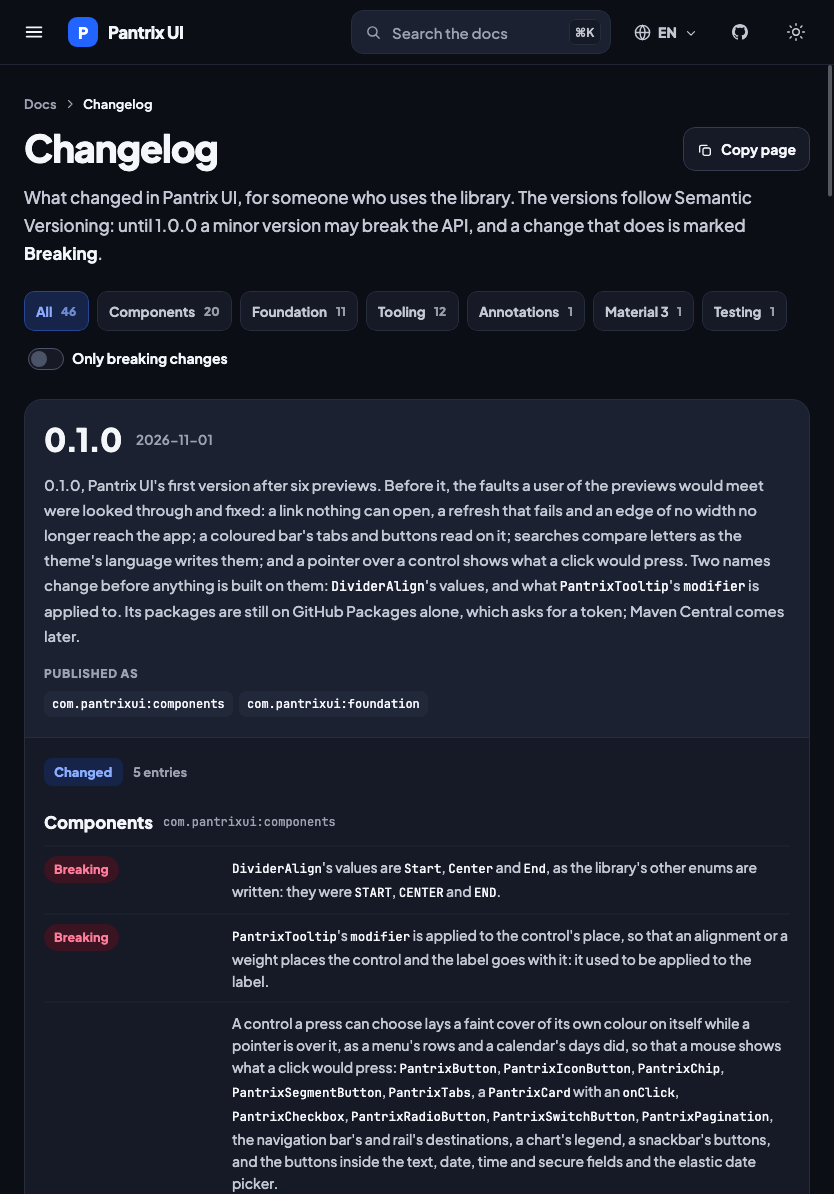
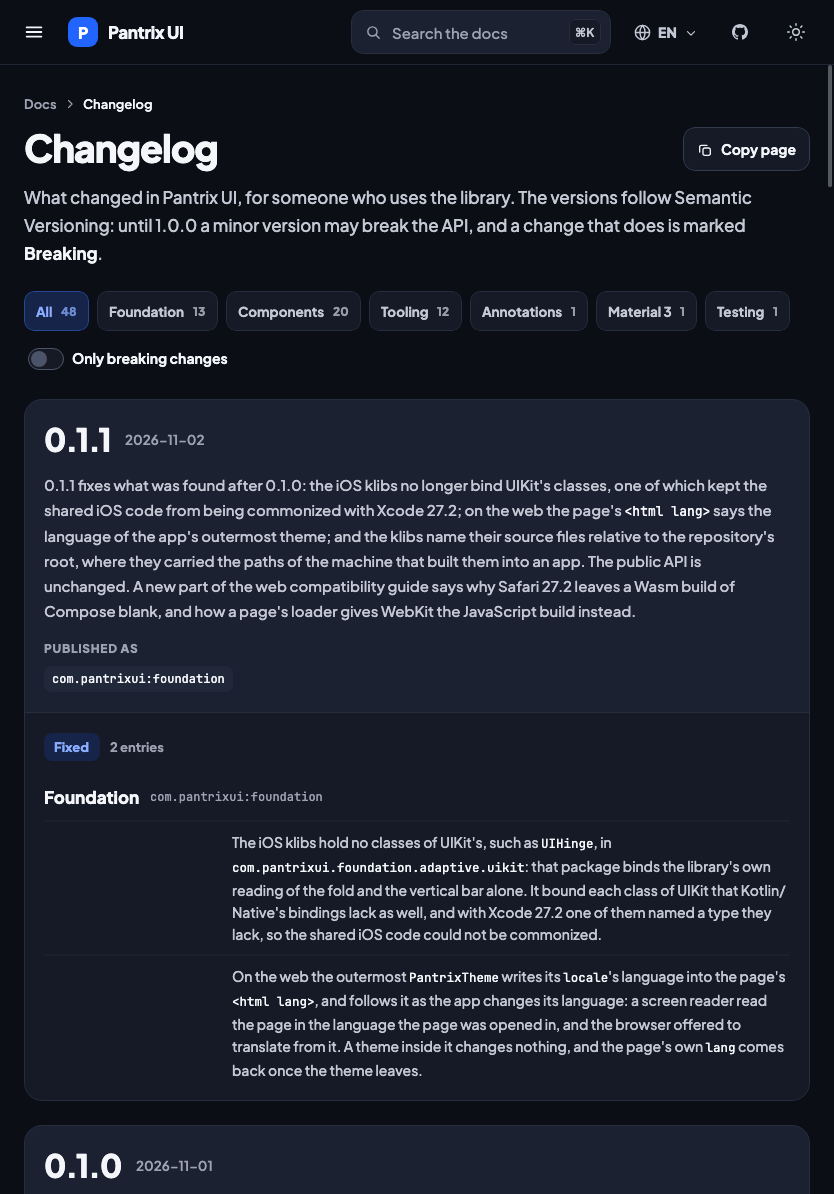
[RELEASE][Take Pantrix UI 0.1.1, Prepare 26.11.2, Test the page's language as a passing browser test and Check that the Wasm holds no build path of Pantrix UI's either]

diff --git a/feature/docs/src/commonMain/kotlin/com/pantrixui/site/feature/docs/DocScreenPreviews.kt b/feature/docs/src/commonMain/kotlin/com/pantrixui/site/feature/docs/DocScreenPreviews.kt
@@ -63,7 +63,7 @@ private val PAGE = Page(
     blocks = listOf(
         Block.Heading(level = 2, anchor = "dependency", text = previewSpans("Add the dependency")),
         Block.Paragraph(previewSpans("Pantrix is one dependency in the shared module's common source set.")),
-        previewCode("implementation(\"com.pantrixui:components:0.1.0\")"),
+        previewCode("implementation(\"com.pantrixui:components:0.1.1\")"),
         Block.Heading(level = 2, anchor = "first-screen", text = previewSpans("Your first screen")),
         Block.Paragraph(previewSpans("Put the app's content in the theme, and draw a component in it.")),
         previewCode("PantrixTheme {\n    PantrixButton(text = \"Hello\", onClick = {})\n}", file = "App.kt")

diff --git a/core/content/src/commonTest/kotlin/com/pantrixui/site/core/content/ResourceContentRepositoryTest.kt b/core/content/src/commonTest/kotlin/com/pantrixui/site/core/content/ResourceContentRepositoryTest.kt
@@ -38,7 +38,7 @@ class ResourceContentRepositoryTest {
         val english = repository.changelog(Language.English)
         val turkish = repository.changelog(Language.Turkish)
         // The version of the library the site is built on, without -SNAPSHOT: it rises with the catalogue's.
-        assertEquals("0.1.0", english.upcoming)
+        assertEquals("0.1.1", english.upcoming)
         assertEquals(english.releases.size, turkish.releases.size)
         assertTrue(english.releases.first().sections.isNotEmpty())
         assertTrue("keyboard-dismissal" in repository.guideMinutes())

diff --git a/core/model/src/commonMain/kotlin/com/pantrixui/site/core/model/LibraryFacts.kt b/core/model/src/commonMain/kotlin/com/pantrixui/site/core/model/LibraryFacts.kt
@@ -23,7 +23,7 @@ object LibraryFacts {
      * raised with each release. The site's server needs `PantrixMcp.http()`, which came in 0.1.0-alpha03, so the site
      * goes online with that release or a later one.
      */
-    const val RELEASE: String = "0.1.0"
+    const val RELEASE: String = "0.1.1"
 
     /** The repository the library is distributed from: its packages, its releases and Claude Code's plugin for it. */
     const val PACKAGES_REPOSITORY: String = "develappsancho/pantrix-ui-cmp-package"

diff --git a/feature/home/src/commonTest/kotlin/com/pantrixui/site/feature/home/HomeTest.kt b/feature/home/src/commonTest/kotlin/com/pantrixui/site/feature/home/HomeTest.kt
@@ -99,7 +99,7 @@ class HomeTest {
         val model = HomeViewModel(Language.English, FakeContentRepository(listOf(landing)))
         model.onAction(HomeAction.CopyInstall)
         assertEquals(
-            HomeEffect.Copy("implementation(\"com.pantrixui:components:0.1.0\")"),
+            HomeEffect.Copy("implementation(\"com.pantrixui:components:0.1.1\")"),
             model.effects.first()
         )
         model.onAction(HomeAction.Copied(done = false))

diff --git a/app/shared/src/jvmTest/kotlin/com/pantrixui/site/HomePageTest.kt b/app/shared/src/jvmTest/kotlin/com/pantrixui/site/HomePageTest.kt
@@ -58,7 +58,7 @@ class HomePageTest {
     fun the_install_line_is_copied() = siteAt(Route.Home) {
         press(hasPantrixTag("Button", "copyInstall"))
         until("the copy") { copied() != null }
-        assertEquals("implementation(\"com.pantrixui:components:0.1.0\")", copied())
+        assertEquals("implementation(\"com.pantrixui:components:0.1.1\")", copied())
     }
 
     @Test

diff --git a/core/designsystem/src/commonMain/kotlin/com/pantrixui/site/core/designsystem/content/ContentPreviews.kt b/core/designsystem/src/commonMain/kotlin/com/pantrixui/site/core/designsystem/content/ContentPreviews.kt
@@ -175,7 +175,7 @@ private val BLOCKS: List<Block> = listOf(
         )
     ),
     Block.Callout(Tone.Info, listOf(Block.Paragraph(previewSpans("The version is the one on the releases page.")))),
-    previewCode("implementation(\"com.pantrixui:components:0.1.0\")")
+    previewCode("implementation(\"com.pantrixui:components:0.1.1\")")
 )
 
 /** The code of a first screen. */

diff --git a/content/tr/docs/guides/web-compatibility.md b/content/tr/docs/guides/web-compatibility.md
@@ -36,6 +36,7 @@ Please make sure that your runtime environment supports the latest version of Wa
 
 *   Daha eski bir tarayıcı modülü derleyemez ve uygulama hiç başlamaz. Android emülatörünün sistem imajlarındaki Chrome çoğu zaman eskidir (Android 14 imajında Chrome 113); iOS 18.2'ye geçemeyen iPhone'larda Safari ve Chrome Wasm GC'siz kalır.
 *   Özellikleri destekleyen bir tarayıcıda da Wasm sürümü açılamayabilir. Bir telefonun tarayıcısı, bir modülü derlemek için ayırdığı belleği aşabilir. Compose'un web uygulaması iki büyük modülden oluşur (bizde 14,5 MB uygulama, 8,6 MB Skia). Mac'teki simülatörün belleğiyle derlenen bir modül telefonda reddedilebilir.
+*   **WebKit 27.2'de Wasm sürümü boş kalır.** Safari 27.2'nin ve iOS 27.2'nin WebKit'inde Wasm derleyicisi, ısındıktan sonra Compose'un metin ölçümünü yanlış derler: uygulama ilk karesini çizer, sonra bağlantılı bir metnin (`LinkAnnotation`) kutusunu sorarken `SkiaParagraph.getBoundingBox`'ta bir `NullPointerException` ile durur ve sayfa boş kalır. Aynı uygulamanın JS sürümü aynı tarayıcıda çizer; iOS 27.0'ın WebKit'inde Wasm sürümü de çizer. Hata Wasm'ın değil uygulamanın hatası gibi, ilk kareden sonra geldiği için yükleyici JS'e geçmez (5.2).
 *   Compose'un kendi Gradle eklentisindeki `composeCompatibilityBrowserDistribution`, JS ve Wasm dağıtımlarını birleştirir ve tarayıcıyı açılışta bir kez sınar. Wasm sürümü sınamadan geçip sonra çökerse JS'e geçmez: ikinci durum için bir şey yapmaz.
 
 ### Teşhis
@@ -201,6 +202,11 @@ Uygulama ilk karesini çizince `#loading`'i kaldırır (Compose'un `ComposeViewp
             error instanceof WebAssembly.LinkError || error instanceof WebAssembly.RuntimeError);
     }
     function thrownBy(error, script) { return String(error && error.stack || "").indexOf(script) >= 0; }
+    // WebKit: Safari ve iOS'taki her tarayıcı. Chrome'un üstüne kurulanlar kimlik dizgisinde Chrome'u da anar.
+    function webKit() {
+        var agent = typeof navigator === "object" && navigator.userAgent || "";
+        return /AppleWebKit\//.test(agent) && !/Chrom(e|ium)\//.test(agent);
+    }
     function failed(error) {
         if (starting === null || drawn() || !wasmFailed(error)) return;
         if (starting === "wasm") startJavaScript();
@@ -212,12 +218,13 @@ Uygulama ilk karesini çizince `#loading`'i kaldırır (Compose'un `ComposeViewp
 
     var collected = false;
     try { collected = typeof WebAssembly === "object" && WebAssembly.validate(FEATURES); } catch (e) {}
-    if (collected) { starting = "wasm"; load(WASM, startJavaScript); }
+    if (collected && !webKit()) { starting = "wasm"; load(WASM, startJavaScript); }
     else if (typeof WebAssembly === "object") startJavaScript();
     else showStaticWords();
 })();
 ```
 
+*   **WebKit'e JS sürümü verilir,** Wasm GC'si olsa da: WebKit 27.2'nin Wasm derleyicisi Wasm sürümünü boş bırakır (1. bölüm). iOS'taki tarayıcılar kimlik dizgisinde WebKit'in sürümünü söylemez (iOS 27'nin dizgisi işletim sistemini bile `18_7` diye yazar), bu yüzden kural sürüme değil motora bakar.
 *   Yalnızca **Wasm'ın kendi hataları** (`CompileError`, `LinkError`, `RuntimeError`) ve bellek yetmezliği (`RangeError`) JS'e geçirir. Uygulamanın kendi bir isteği düştüğünde (örneğin bir API çağrısı) sürüm değişmez.
 *   JS sürümü başladıktan sonra Wasm sürümünün geride kalan parçaları da hata atabilir: Skia'nın ayrı yüklenen Wasm'ı, uygulamanın modülü düştükten sonra kendi hatasını atar. Yığını `site-wasm.js`'ten geçen bir hata JS sürümünün hatası sayılmaz; sayılsaydı çalışan bir JS sürümü statik metnin arkasında kalırdı.
 
@@ -245,6 +252,9 @@ map $uri $site_cache {
 | Gradle'da sonlandırıcı | "Unable to make progress running work" | JS dağıtımı Wasm dağıtımının bağımlılığı olur, kopya yalnızca sonlandırıcı (3.2) |
 | `JsException` | JS'te iptali de yakalar | İptal önce yukarı gönderilir (4. bölüm) |
 | Webpack ve `import.meta.url` | Skia'nın JavaScript'indeki `import.meta.url`, pakete derleyen makinedeki dosya yolu olarak yazılır (`file:///Users/…`): herkese açık bir dosyada kullanıcı adı ve klasörler | Paket yalnızca yüklendiği klasörü bulmak için okur ve burada kullanmaz: bir webpack eklentisi, paket küçültüldükten sonra ve harita yazılmadan önce, her `"file:///…"` dizgisini boş dizgi yapar (`webpack.config.d/stripFilePaths.js`, 9. bölüm) |
+| Klib'lerin kaynak yolları | Kotlin her modülün klib'ine kaynak dosyalarının derleyen makinedeki tam yolunu yazar; Wasm'a girerler (`/Users/…/src/commonMain/…`): herkese açık bir dosyada kullanıcı adı ve klasörler. Kütüphanenin klib'leri 0.1.1'den beri yolları deponun köküne göre yazar | Uygulamanın web için derlenen her modülünde `tasks.withType<Kotlin2JsCompile>().configureEach { compilerOptions.freeCompilerArgs.add("-Xklib-relative-path-base=${rootDir.absolutePath}") }`; Wasm'da `strings` ile `/Users/` aranır (8. bölüm) |
+| WebKit 27.2'nin Wasm derleyicisi | Uygulama ilk karesini çizer, sonra `SkiaParagraph.getBoundingBox`'ta `NullPointerException` ile durur; sayfa boş kalır, yükleyici JS'e geçmez | WebKit'e JS sürümü verilir (5.2). Bağlantılı her metin (`LinkAnnotation`, `PantrixLink`) tetikleyebilir; JS sürümünde yoktur |
+| Sayfanın dili | Uygulama içinde dil değiştirilince sayfanın `<html lang>`'ı açıldığı dilde kalır: ekran okuyucu Türkçe metni İngilizce telaffuzla okur, tarayıcı yanlış dilden çeviri önerir | Kütüphaneyle: en dıştaki `PantrixTheme` `locale`'inin dilini yazar ve izler. Kütüphanesiz: dil değiştikçe `document.documentElement.setAttribute("lang", etiket)` |
 | `adb screencap` | Birden çok ekranı olan bir emülatörde (katlanabilir) uyarı verir ve ilk ekranı alır | `-d <ekran>` ile ekran seçilir |
 :::
 
@@ -261,7 +271,9 @@ Görülenler (2026-10-31, Pantrix UI'ın sitesi, yerel yığında: emülatör on
 | Masaüstü, başsız Chrome, iki Wasm da bozuk | Wasm GC var | İki sürüm de açılamadı → statik metin göründü |
 | Bu deponun demosu: emülatör, Chrome 113 ve başsız Chrome'da aynı üç yol | Hepsi | Button sayfası JS sürümüyle çizildi; bozuk Wasm'da JS'e geçti; iki Wasm da bozukken "bu tarayıcı demoyu çalıştıramıyor" yazısı kaldı |
 | iOS simülatörü, iOS 27.0 | Safari | Wasm sürümü çizildi |
+| iOS simülatörü, iOS 27.2 (2026-11-02) | Safari 27.2 | Wasm sürümü ilk kareden sonra `SkiaParagraph.getBoundingBox`'ta `NullPointerException` ile durdu, sayfa boş kaldı; zorla açılan JS sürümü çizdi. Bu deponun demosu da boş kaldı. Yükleyici WebKit'e JS sürümünü verince ikisi de çizdi |
 | İki yol da, rapor modunda | Chrome | İçerik güvenliği politikasına hiçbir ihlal yok |
+| Kütüphanenin klib'leri, göreli yollarla (2026-11-02) | Hepsi | `foundation`'ın Wasm, JS ve iOS klib'lerinde mutlak yol kalmadı, kaynaklar `ui/foundation/src/…` diye yazılı; 0.1.0'ın Wasm klib'inde 45 mutlak yol vardı |
 :::
 
 Görülmeyenler:

diff --git a/content/en/docs/guides/web-compatibility.md b/content/en/docs/guides/web-compatibility.md
@@ -36,6 +36,7 @@ Please make sure that your runtime environment supports the latest version of Wa
 
 *   An older browser cannot compile the module, and the app never starts. The Chrome in the Android emulator's system images is often old (Chrome 113 in the Android 14 image); on iPhones that cannot move to iOS 18.2, Safari and Chrome are without Wasm GC.
 *   In a browser that has the features, the Wasm build can still fail to open. A phone's browser can go past the memory it sets aside for compiling a module. A Compose web app is two large modules (14.5 MB of app and 8.6 MB of Skia for us). A module the simulator compiles with the Mac's memory can be refused on a phone.
+*   **On WebKit 27.2 the Wasm build stays blank.** In the WebKit of Safari 27.2 and iOS 27.2, the Wasm compiler, once warm, compiles Compose's measuring of text wrong: the app draws its first frame, then stops on a `NullPointerException` in `SkiaParagraph.getBoundingBox` as it asks for the box of a text with a link (`LinkAnnotation`), and the page stays blank. The same app's JS build draws in the same browser; on iOS 27.0's WebKit the Wasm build draws too. The error comes after the first frame, as the app's own and not Wasm's, so the loader does not go over to JS (5.2).
 *   `composeCompatibilityBrowserDistribution`, in Compose's own Gradle plugin, joins the JS and Wasm distributions and tests the browser once, as the page opens. Where the Wasm build passes the test and fails after, it does not go over to JS: it does nothing for the second case.
 
 ### Diagnosis
@@ -201,6 +202,11 @@ The app takes `#loading` away once it has drawn its first frame (Compose's `Comp
             error instanceof WebAssembly.LinkError || error instanceof WebAssembly.RuntimeError);
     }
     function thrownBy(error, script) { return String(error && error.stack || "").indexOf(script) >= 0; }
+    // WebKit: Safari and every browser on iOS. Those built on Chrome name Chrome in their user agent as well.
+    function webKit() {
+        var agent = typeof navigator === "object" && navigator.userAgent || "";
+        return /AppleWebKit\//.test(agent) && !/Chrom(e|ium)\//.test(agent);
+    }
     function failed(error) {
         if (starting === null || drawn() || !wasmFailed(error)) return;
         if (starting === "wasm") startJavaScript();
@@ -212,12 +218,13 @@ The app takes `#loading` away once it has drawn its first frame (Compose's `Comp
 
     var collected = false;
     try { collected = typeof WebAssembly === "object" && WebAssembly.validate(FEATURES); } catch (e) {}
-    if (collected) { starting = "wasm"; load(WASM, startJavaScript); }
+    if (collected && !webKit()) { starting = "wasm"; load(WASM, startJavaScript); }
     else if (typeof WebAssembly === "object") startJavaScript();
     else showStaticWords();
 })();
 ```
 
+*   **WebKit is given the JS build,** though it has Wasm GC: WebKit 27.2's Wasm compiler leaves the Wasm build blank (section 1). The browsers on iOS do not say WebKit's version in their user agent (iOS 27's even writes the system as `18_7`), so the rule looks at the engine, not the version.
 *   Only **Wasm's own errors** (`CompileError`, `LinkError`, `RuntimeError`) and no memory left (`RangeError`) move to JS. Where one of the app's own requests fails (an API call, say), the build does not change.
 *   After the JS build has started, what is left of the Wasm build can throw too: Skia's Wasm, loaded on its own, throws its own error after the app's module has failed. An error whose stack runs through `site-wasm.js` is not counted as the JS build's; were it counted, a JS build that works would stay behind the static text.
 
@@ -245,6 +252,9 @@ map $uri $site_cache {
 | A finalizer in Gradle | "Unable to make progress running work" | The JS distribution is a dependency of the Wasm one, the copy only a finalizer (3.2) |
 | `JsException` | Catches the cancellation too in JS | The cancellation is sent up first (section 4) |
 | Webpack and `import.meta.url` | The `import.meta.url` in Skia's JavaScript is written as the file's path on the machine that builds the script (`file:///Users/…`): a user name and folders in a public file | The script reads it only for the folder it was loaded from, and does not use it here: a webpack plugin turns every `"file:///…"` string into an empty one, after the script is minified and before its map is written (`webpack.config.d/stripFilePaths.js`, section 9) |
+| The klibs' source paths | Kotlin writes into each module's klib the full path its source files have on the machine that builds it; they reach the Wasm (`/Users/…/src/commonMain/…`): a user name and folders in a public file. The library's klibs write the paths relative to the repository's root from 0.1.1 on | In each of the app's modules that builds for the web, `tasks.withType<Kotlin2JsCompile>().configureEach { compilerOptions.freeCompilerArgs.add("-Xklib-relative-path-base=${rootDir.absolutePath}") }`; `/Users/` is searched for in the Wasm with `strings` (section 8) |
+| WebKit 27.2's Wasm compiler | The app draws its first frame, then stops on a `NullPointerException` in `SkiaParagraph.getBoundingBox`; the page stays blank, and the loader does not go over to JS | WebKit is given the JS build (5.2). Any text with a link (`LinkAnnotation`, `PantrixLink`) can set it off; the JS build has none of it |
+| The page's language | Where the language changes inside the app, the page's `<html lang>` stays the one it was opened in: a screen reader reads Turkish words with English sounds, and the browser offers to translate from the wrong language | With the library: the outermost `PantrixTheme` writes its `locale`'s language and follows it. Without it: `document.documentElement.setAttribute("lang", tag)` as the language changes |
 | `adb screencap` | On an emulator with more than one screen (a foldable), it warns and takes the first | The screen is chosen with `-d <screen>` |
 :::
 
@@ -261,7 +271,9 @@ What was seen (2026-10-31, Pantrix UI's site, on the local stack: the emulator r
 | Desktop, headless Chrome, both Wasm files broken | Has Wasm GC | Neither build could open → the static text showed |
 | This repository's demo: the same three ways in the emulator's Chrome 113 and in headless Chrome | All | The Button page was drawn by the JS build; with a broken Wasm it went over to JS; with both Wasm files broken the note "this browser cannot run the demo" stayed |
 | iOS simulator, iOS 27.0 | Safari | The Wasm build drew |
+| iOS simulator, iOS 27.2 (2026-11-02) | Safari 27.2 | The Wasm build stopped after its first frame on a `NullPointerException` in `SkiaParagraph.getBoundingBox`, and the page stayed blank; the JS build, forced, drew. This repository's demo stayed blank too. With the loader giving WebKit the JS build, both drew |
 | Both ways, in report-only mode | Chrome | No violation of the content security policy |
+| The library's klibs, with relative paths (2026-11-02) | All | No absolute path is left in `foundation`'s Wasm, JS and iOS klibs, whose sources are written `ui/foundation/src/…`; 0.1.0's Wasm klib held 45 absolute paths |
 :::
 
 What was not seen:

diff --git a/content/en/docs/ai-assistants.md b/content/en/docs/ai-assistants.md
@@ -8,7 +8,7 @@ section: Getting started
 
 :::table The documents
 - `{{site}}/mcp`: The MCP server, which this site serves over HTTP: an assistant is given its address alone
-- `mcp-0.1.0-all.jar`: The same server as one jar that runs by itself, attached to each release, for a machine of your own
+- `mcp-0.1.1-all.jar`: The same server as one jar that runs by itself, attached to each release, for a machine of your own
 - `pantrix-ui` skill: The rules code written with Pantrix keeps, Material's names and Pantrix's, and how the parts fit
 - `llms.txt`, `llms-full.txt`: The index of the documents, and all of them in one file, at this site's root
 - `pantrix-ui.json`: The library as data: every component, its parameters, its examples and its tags
@@ -56,9 +56,9 @@ claude plugin install pantrix-ui@pantrix-ui
 The jar is attached to [each release](https://github.com/develappsancho/pantrix-ui-cmp-package/releases), and after `./gradlew publishToMavenLocal` in the library's repository it stands in the local Maven repository too: `~/.m2/repository/com/pantrixui/mcp/<version>/`. It runs on JDK 17 or newer. It writes the skill into a project too, which the team then gets through git, and which any assistant that reads skills takes:
 
 ```bash
-curl -fL --create-dirs -o ~/.pantrix/mcp-0.1.0-all.jar https://github.com/develappsancho/pantrix-ui-cmp-package/releases/download/v0.1.0/mcp-0.1.0-all.jar
-claude mcp add pantrix-ui -- java -jar ~/.pantrix/mcp-0.1.0-all.jar
-java -jar ~/.pantrix/mcp-0.1.0-all.jar skill .claude/skills
+curl -fL --create-dirs -o ~/.pantrix/mcp-0.1.1-all.jar https://github.com/develappsancho/pantrix-ui-cmp-package/releases/download/v0.1.1/mcp-0.1.1-all.jar
+claude mcp add pantrix-ui -- java -jar ~/.pantrix/mcp-0.1.1-all.jar
+java -jar ~/.pantrix/mcp-0.1.1-all.jar skill .claude/skills
 ```
 :::
 
@@ -67,10 +67,10 @@ java -jar ~/.pantrix/mcp-0.1.0-all.jar skill .claude/skills
 :::table Where to find them
 | What | Where |
 | :--- | :--- |
-| The MCP server | `{{site}}/mcp`, `mcp-0.1.0-all.jar` on [the release](https://github.com/develappsancho/pantrix-ui-cmp-package/releases/tag/v0.1.0), or the local Maven repository after a local publish |
-| The skill | Claude Code's plugin `pantrix-ui@pantrix-ui`, `pantrix-ui-skill-0.1.0.zip` on the release, or the jar's `skill` command |
+| The MCP server | `{{site}}/mcp`, `mcp-0.1.1-all.jar` on [the release](https://github.com/develappsancho/pantrix-ui-cmp-package/releases/tag/v0.1.1), or the local Maven repository after a local publish |
+| The skill | Claude Code's plugin `pantrix-ui@pantrix-ui`, `pantrix-ui-skill-0.1.1.zip` on the release, or the jar's `skill` command |
 | `llms.txt` | [{{site}}/llms.txt]({{site}}/llms.txt): its links lead to this site's pages, and what has no page is under `/llms/` |
-| Every document, on your machine | `java -jar mcp-0.1.0-all.jar docs <folder>` |
+| Every document, on your machine | `java -jar mcp-0.1.1-all.jar docs <folder>` |
 :::
 
 ## What it can ask {#tools}

diff --git a/content/tr/docs/ai-assistants.md b/content/tr/docs/ai-assistants.md
@@ -8,7 +8,7 @@ section: Başlarken
 
 :::table Belgeler
 - `{{site}}/mcp`: Bu sitenin HTTP üzerinden sunduğu MCP sunucusu: bir asistana yalnızca adresi verilir
-- `mcp-0.1.0-all.jar`: Aynı sunucu, kendi başına çalışan tek bir jar olarak; her sürüme ekli, kendi makinen için
+- `mcp-0.1.1-all.jar`: Aynı sunucu, kendi başına çalışan tek bir jar olarak; her sürüme ekli, kendi makinen için
 - `pantrix-ui` becerisi: Pantrix ile yazılan kodun uyduğu kurallar, Material'ın adları ve Pantrix'inkiler, parçaların birbirine nasıl oturduğu
 - `llms.txt`, `llms-full.txt`: Belgelerin dizini ve hepsi tek bir dosyada, bu sitenin kökünde
 - `pantrix-ui.json`: Veri olarak kütüphane: her bileşen, parametreleri, örnekleri ve etiketleri
@@ -56,9 +56,9 @@ claude plugin install pantrix-ui@pantrix-ui
 Jar [her sürüme](https://github.com/develappsancho/pantrix-ui-cmp-package/releases) eklidir; kütüphanenin deposunda `./gradlew publishToMavenLocal`'dan sonra yerel Maven deposunda da durur: `~/.m2/repository/com/pantrixui/mcp/<sürüm>/`. JDK 17 ya da üstünde çalışır. Beceriyi bir projeye de yazar; ekip onu git'ten alır, becerileri okuyan her asistan da kullanır:
 
 ```bash
-curl -fL --create-dirs -o ~/.pantrix/mcp-0.1.0-all.jar https://github.com/develappsancho/pantrix-ui-cmp-package/releases/download/v0.1.0/mcp-0.1.0-all.jar
-claude mcp add pantrix-ui -- java -jar ~/.pantrix/mcp-0.1.0-all.jar
-java -jar ~/.pantrix/mcp-0.1.0-all.jar skill .claude/skills
+curl -fL --create-dirs -o ~/.pantrix/mcp-0.1.1-all.jar https://github.com/develappsancho/pantrix-ui-cmp-package/releases/download/v0.1.1/mcp-0.1.1-all.jar
+claude mcp add pantrix-ui -- java -jar ~/.pantrix/mcp-0.1.1-all.jar
+java -jar ~/.pantrix/mcp-0.1.1-all.jar skill .claude/skills
 ```
 :::
 
@@ -67,10 +67,10 @@ java -jar ~/.pantrix/mcp-0.1.0-all.jar skill .claude/skills
 :::table Nerede bulunur
 | Ne | Nerede |
 | :--- | :--- |
-| MCP sunucusu | `{{site}}/mcp`, [sürüme](https://github.com/develappsancho/pantrix-ui-cmp-package/releases/tag/v0.1.0) ekli `mcp-0.1.0-all.jar` ya da yerel yayından sonra yerel Maven deposu |
-| Beceri | Claude Code'un `pantrix-ui@pantrix-ui` eklentisi, sürüme ekli `pantrix-ui-skill-0.1.0.zip` ya da jar'ın `skill` komutu |
+| MCP sunucusu | `{{site}}/mcp`, [sürüme](https://github.com/develappsancho/pantrix-ui-cmp-package/releases/tag/v0.1.1) ekli `mcp-0.1.1-all.jar` ya da yerel yayından sonra yerel Maven deposu |
+| Beceri | Claude Code'un `pantrix-ui@pantrix-ui` eklentisi, sürüme ekli `pantrix-ui-skill-0.1.1.zip` ya da jar'ın `skill` komutu |
 | `llms.txt` | [{{site}}/llms.txt]({{site}}/llms.txt): bağlantıları bu sitenin sayfalarına gider, sayfası olmayanlar `/llms/` altındadır |
-| Bütün belgeler, kendi makinende | `java -jar mcp-0.1.0-all.jar docs <klasör>` |
+| Bütün belgeler, kendi makinende | `java -jar mcp-0.1.1-all.jar docs <klasör>` |
 :::
 
 ## Neleri sorabilir {#tools}

diff --git a/CHANGELOG.md b/CHANGELOG.md
@@ -12,11 +12,25 @@ What changed on Pantrix UI's site, `pantrixui.com`, and in its apps, for someone
 
 ## [Unreleased]
 
+## [26.11.2] - 2026-11-02
+
+The site built with Pantrix UI 0.1.1: it opens again in Safari 27.2 and on iOS 27.2, its page says the language it is
+read in, and its MCP server answers each visitor within a limit.
+
+### Changed
+
+- **Pantrix UI 0.1.1:** the lines that install the library, on the home page and in Installation, and the files for
+  coding assistants name the library's 0.1.1; the web compatibility guide says why Safari 27.2 leaves a Wasm build of
+  Compose blank, and how a page gives WebKit the JavaScript build instead.
+
 ### Fixed
 
 - **Safari 27.2 and every browser on iOS 27.2:** the site opens again; it stayed blank. WebKit 27.2's WebAssembly
   compiler gets the Wasm build's measuring of text wrong, so WebKit, Safari and every browser on iOS, is given the
   JavaScript build.
+- **The page's language:** once the language is changed on the site, the page says it is in that language as well, so
+  a screen reader reads it with that language's sounds and the browser offers no translation from the other; it said
+  the language the address was opened in.
 - **Tabs a screen reader can tell apart:** the clients of the page for coding assistants and the sections of the
   foundations' page say which one is chosen, as their look does.
 
@@ -26,7 +40,7 @@ What changed on Pantrix UI's site, `pantrixui.com`, and in its apps, for someone
   site answers 429 (Too Many Requests), so that no one visitor can keep the server busy for everyone else.
 - **No paths of the build machine in the web app:** the site's Wasm names its own source files relative to the
   repository's root, where it named them by their full path on the machine that built it, with that user's name and
-  folders. The paths it carries from Pantrix UI go with the library's 0.1.1.
+  folders. Pantrix UI's 0.1.1 names the library's own files the same way.
 
 ## [26.11.1] - 2026-11-01
 
